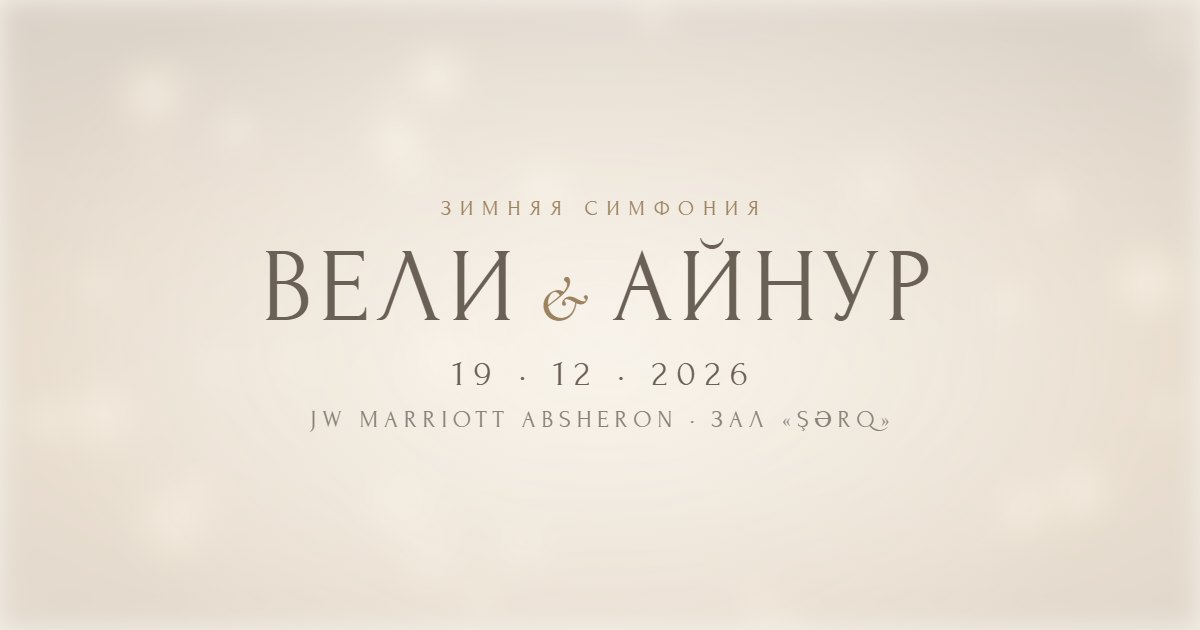
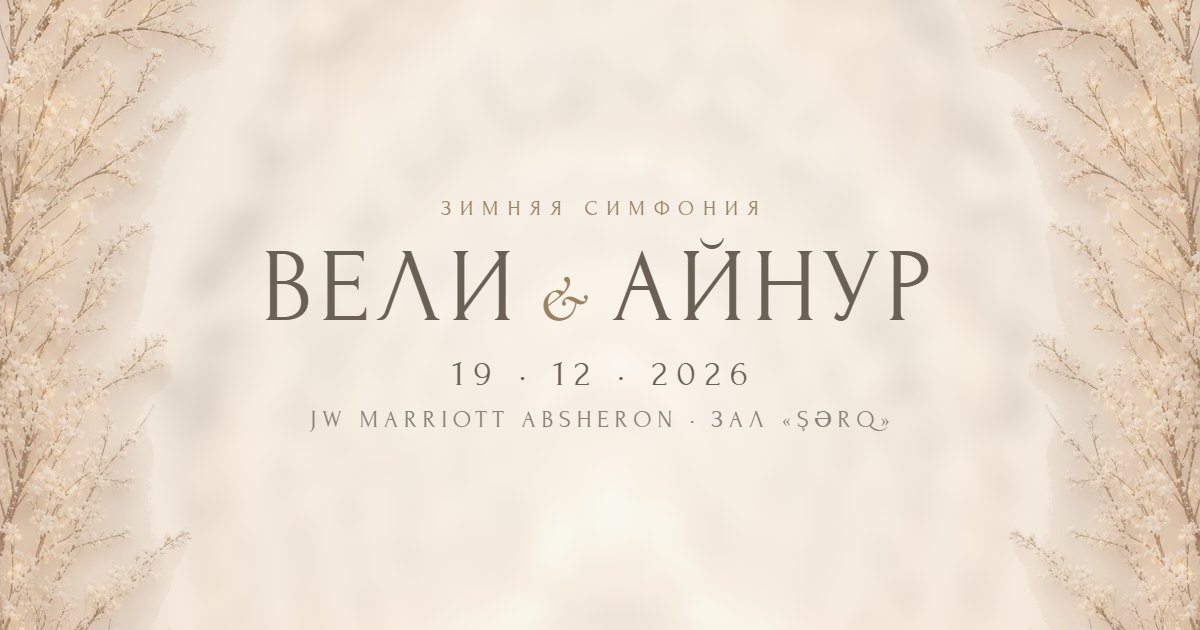
Generated images: blossom tunnel behind the frost, frosted branches, candlelit hall ending; new preview card

diff --git a/style.css b/style.css
@@ -27,12 +27,15 @@ body.locked { overflow: hidden; height: 100svh; }
 img { display: block; max-width: 100%; }
 
 /* ===== Cover: frosted window ===== */
-/* Layers, back to front: candlelight (CSS bokeh) → frost (blur + grain) → text.
-   On tap the frost melts from the centre out, the lights drift closer, then the gate fades into the hero. */
+/* Layers, back to front: candlelit blossom tunnel → frost (blur + grain + branches) → text.
+   On tap the frost melts from the centre out, the view glides into the tunnel, then the gate fades into the hero. */
 @property --melt { syntax: '<percentage>'; inherits: false; initial-value: -25%; }
 .gate { position: fixed; inset: 0; z-index: 50; overflow: hidden; background: var(--ivory); transition: opacity 1.1s 2.1s; }
 .gate.open { opacity: 0; }
-.gate-room { transform: scale(1.06); transition: transform 3.4s cubic-bezier(.5, 0, .2, 1); }
+.gate-room {
+  position: absolute; inset: 0; width: 100%; height: 100%; object-fit: cover; object-position: 50% 45%;
+  transform: scale(1.06); transition: transform 3.4s cubic-bezier(.5, 0, .2, 1);
+}
 .open .gate-room { transform: scale(1.45); }
 .frost {
   position: absolute; inset: 0; isolation: isolate;
@@ -46,17 +49,14 @@ img { display: block; max-width: 100%; }
   transition: --melt 2.2s cubic-bezier(.55, 0, .35, 1) .25s;
 }
 .open .frost { --melt: 130%; }
-/* Candlelight: soft out-of-focus lights on a warm champagne-to-umber glow (spans added by script.js) */
-.lights {
-  position: absolute; inset: 0; overflow: hidden;
-  background: radial-gradient(120% 70% at 50% 62%, #e9d5b2, #b48f63 38%, #5a4330 72%, #2e231a);
+/* Branches are on pure white, so multiply drops the white and keeps the branches on the frost.
+   object-fit: cover on a narrow box keeps only the outer (branch) side of each image. */
+.branch {
+  position: absolute; top: 0; height: 100%; width: min(38vw, 280px); object-fit: cover;
+  mix-blend-mode: multiply; opacity: .9; pointer-events: none;
 }
-.lights span {
-  position: absolute; border-radius: 50%; translate: -50% -50%;
-  background: radial-gradient(circle, rgba(255, 246, 225, .95), rgba(255, 220, 160, .45) 42%, transparent 70%);
-  animation: twinkle ease-in-out infinite alternate;
-}
-@keyframes twinkle { from { opacity: .35; scale: .85; } to { opacity: 1; scale: 1.05; } }
+.branch-l { left: 0; object-position: 0 50%; -webkit-mask: linear-gradient(90deg, #000 45%, transparent); mask: linear-gradient(90deg, #000 45%, transparent); }
+.branch-r { right: 0; object-position: 100% 50%; -webkit-mask: linear-gradient(270deg, #000 45%, transparent); mask: linear-gradient(270deg, #000 45%, transparent); }
 
 .cover {
   position: absolute; inset: 0; z-index: 2;
@@ -215,16 +215,19 @@ section { text-align: center; }
 .date, .venue, .greeting { opacity: 0; transform: translateY(24px); transition: opacity 1s, transform 1.2s var(--ease); }
 .date.in, .venue.in, .greeting.in { opacity: 1; transform: none; }
 
-/* ===== Closing: candlelight ===== */
+/* ===== Closing: the candlelit hall ===== */
 .closing {
   position: relative; overflow: hidden; padding: 26svh 24px 22svh; color: var(--ivory); background: #2b231d;
   display: grid; justify-items: center; gap: 14px;
 }
-.closing-room { transform: scale(1.15); transition: transform 6s var(--ease); }
+.closing-room {
+  position: absolute; inset: 0; width: 100%; height: 100%; object-fit: cover; object-position: 50% 50%;
+  transform: scale(1.15); transition: transform 6s var(--ease);
+}
 .closing.in .closing-room { transform: none; }
-.closing::before {   /* warm shade so the text stays readable over the lights */
+.closing::before {   /* warm shade so the text stays readable over the bright hall */
   content: ''; position: absolute; inset: 0; z-index: 1;
-  background: radial-gradient(80% 50% at 50% 50%, rgba(43, 35, 29, .5), rgba(43, 35, 29, .1) 80%),
+  background: radial-gradient(80% 50% at 50% 50%, rgba(43, 35, 29, .7), rgba(43, 35, 29, .25) 80%),
     linear-gradient(var(--ivory), transparent 14%, transparent 86%, var(--cream));
 }
 .closing > :not(.closing-room) { position: relative; z-index: 2; }

diff --git a/index.html b/index.html
@@ -22,8 +22,9 @@
 <link rel="preconnect" href="https://fonts.googleapis.com">
 <link rel="preconnect" href="https://fonts.gstatic.com" crossorigin>
 <link href="https://fonts.googleapis.com/css2?family=Cormorant+Garamond:ital,wght@0,400;0,500;0,600;1,400;1,500&family=Forum&display=swap" rel="stylesheet">
+<link rel="preload" as="image" href="assets/cover.webp">
 <link rel="preload" as="image" href="assets/hero.webp">
-<link rel="stylesheet" href="style.css?v=2"><!-- bump ?v= on every change so phones skip their cached copy -->
+<link rel="stylesheet" href="style.css?v=3"><!-- bump ?v= on every change so phones skip their cached copy -->
 
 <script>
 // ===== EDIT ONLY THIS BLOCK =====
@@ -46,10 +47,13 @@ const CONFIG = {
 </head>
 <body class="locked">
 
-<!-- ===== Cover: a frosted window; the frost melts and warm candlelight shows through ===== -->
+<!-- ===== Cover: a frosted window; the frost melts and the candlelit blossom tunnel shows through ===== -->
 <div class="gate" id="gate">
-  <div class="lights gate-room" data-n="46" aria-hidden="true"></div>
-  <div class="frost" aria-hidden="true"></div>
+  <img class="gate-room" src="assets/cover.webp" alt="">
+  <div class="frost" aria-hidden="true">
+    <img class="branch branch-l" src="assets/branch-l.webp" alt="">
+    <img class="branch branch-r" src="assets/branch-r.webp" alt="">
+  </div>
   <div class="cover">
     <p class="cover-kicker">Зимняя симфония</p>
     <h1 class="cover-names"><span data-c="groom"></span><i>&amp;</i><span data-c="bride"></span></h1>
@@ -119,9 +123,9 @@ const CONFIG = {
     </figure>
   </div>
 
-  <!-- Closing: candlelight -->
+  <!-- Closing: the candlelit hall -->
   <section class="closing">
-    <div class="lights closing-room" data-n="36" aria-hidden="true"></div>
+    <img class="closing-room" src="assets/hall.webp" alt="" loading="lazy">
     <p class="closing-kicker">Зимняя симфония</p>
     <p class="closing-names"><span data-c="groom"></span><i>&amp;</i><span data-c="bride"></span></p>
     <p class="closing-tag">Сказка двух культур</p>
@@ -173,6 +177,6 @@ const CONFIG = {
 </button>
 <audio id="audio" loop preload="none"></audio>
 
-<script src="script.js?v=2"></script>
+<script src="script.js?v=3"></script>
 </body>
 </html>

diff --git a/script.js b/script.js
@@ -69,19 +69,7 @@ for (let i = 0; i < 26; i++) {
   snow.append(f);
 }
 
-// ---- Candlelight bokeh (cover + closing) ----
-// ponytail: plain spans, a few dozen per box; swap for a photo once the generated hall images arrive
-document.querySelectorAll('.lights').forEach((box) => {
-  for (let i = 0; i < +box.dataset.n; i++) {
-    const s = document.createElement('span');
-    const size = 10 + Math.random() ** 2 * 70;
-    s.style.cssText = `left:${Math.random() * 100}%;top:${8 + Math.random() * 84}%;width:${size}px;height:${size}px;`
-      + `animation-duration:${2 + Math.random() * 3}s;animation-delay:${-Math.random() * 5}s`;
-    box.append(s);
-  }
-});
-
-// ---- Opening: the frost melts, the lights drift closer ----
+// ---- Opening: the frost melts, the view glides into the tunnel ----
 const gate = $('#gate');
 const audio = $('#audio');
 const musicBtn = $('#music');
